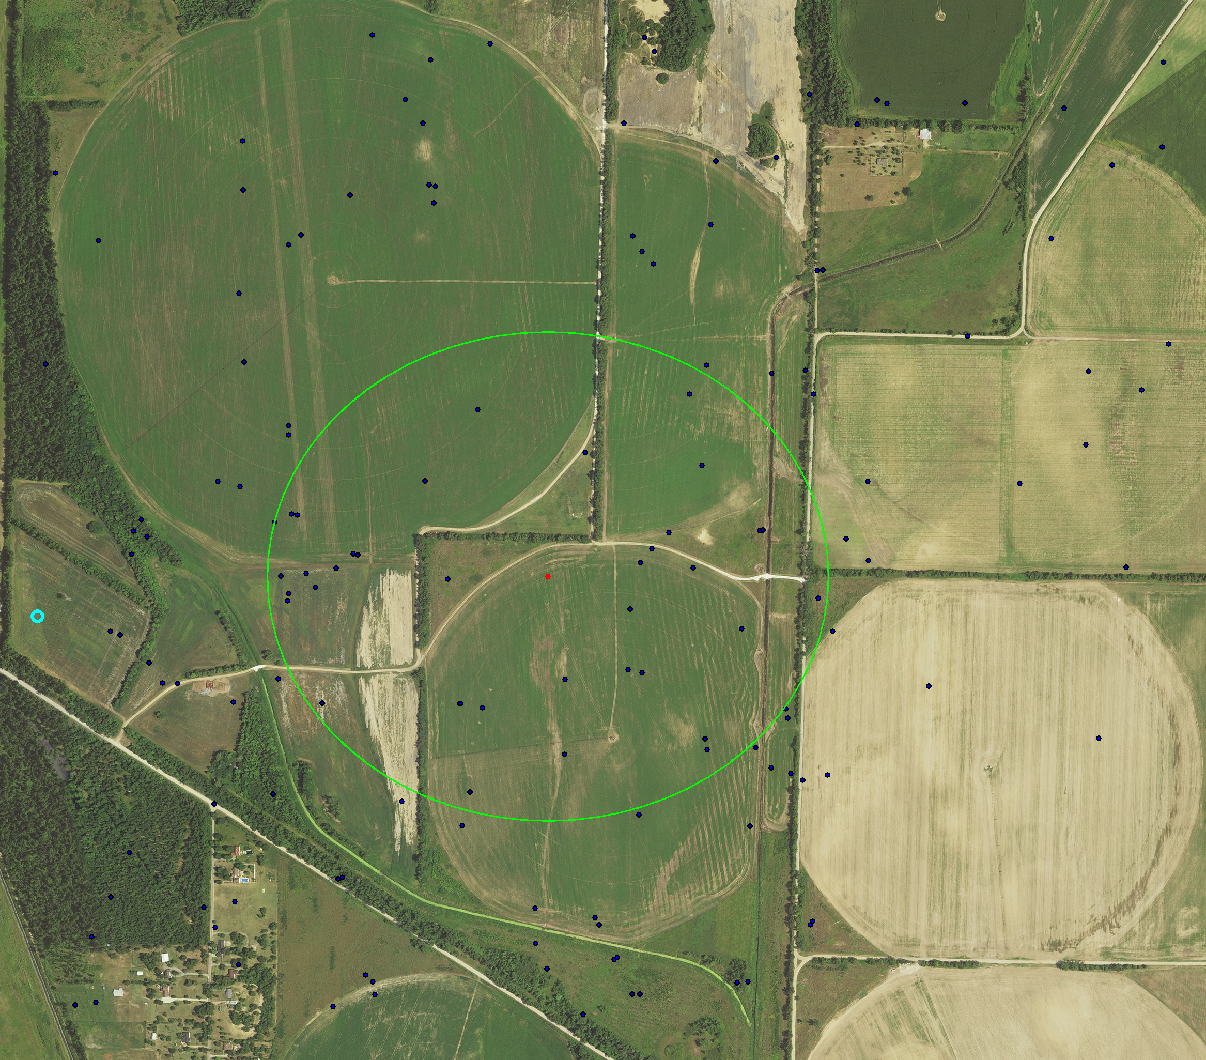
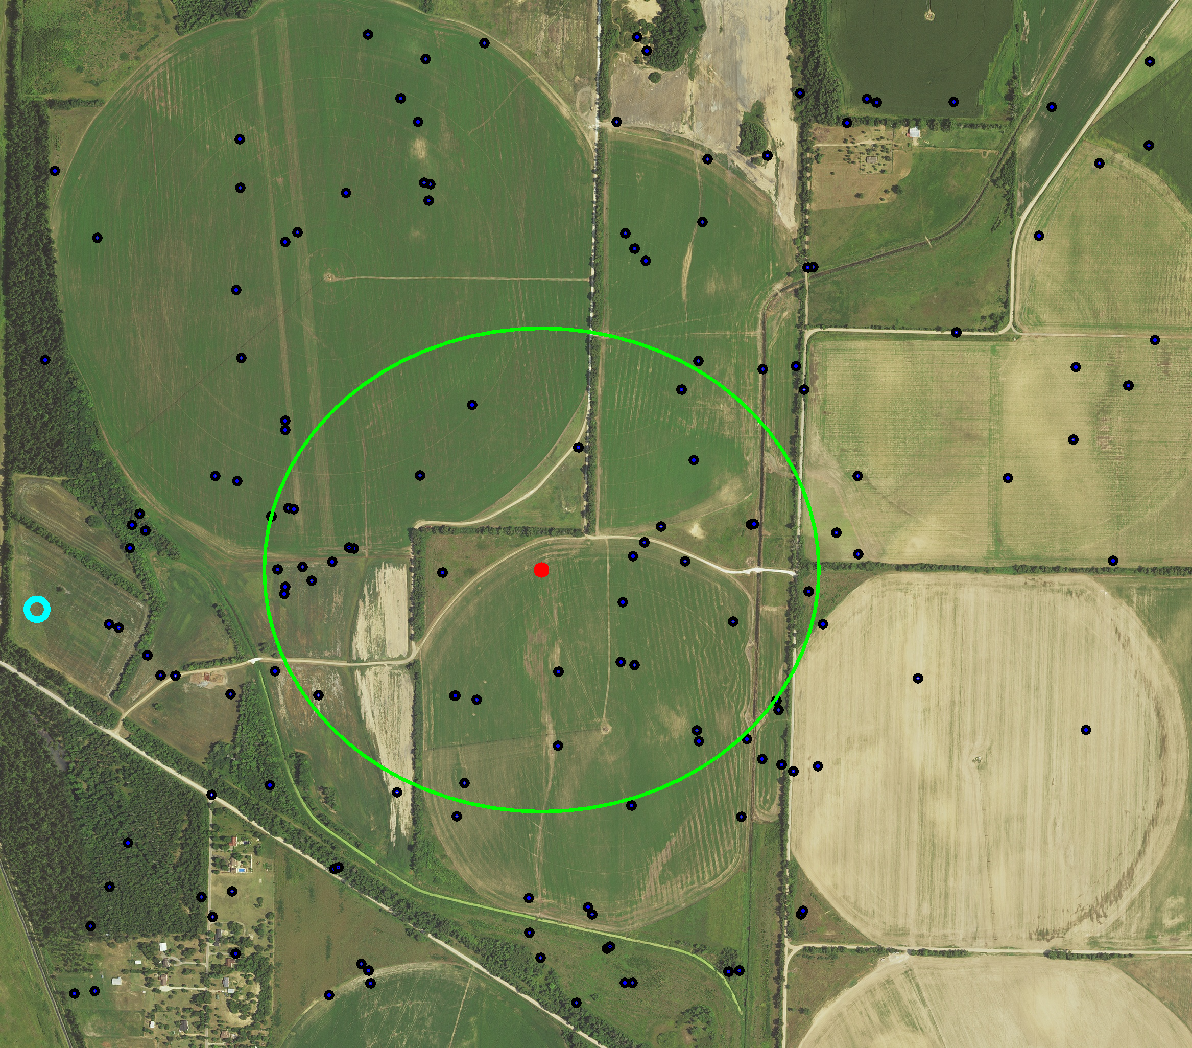
Photos added #2
Photos without model; stoping visualization

diff --git a/src/__main__.py b/src/__main__.py
@@ -49,38 +49,36 @@ def visualize_particles(map_picture, particles, uav, metric):
 
     # traj_coords = uav.traj_coords
     # for i in range(1, len(traj_coords)):
-    #     cv2.line(map_copy, traj_coords[i - 1], traj_coords[i], (255, 0, 0), 2)
+    #     cv2.line(map_copy, traj_coords[i - 1], traj_coords[i], (255, 0, 0), 5)
 
-    # # Dodanie oznaczenia startu i końca trajektorii
     # start_point = traj_coords[0]
     # end_point = traj_coords[-1]
-    # text_offset = (0, -10)  # Przesunięcie tekstu w górę
-    # font_scale = 1.0  # Powiększenie tekstu
+    # font_scale = 3.0
 
-    # cv2.putText(map_copy, 'START', (start_point[0], start_point[1] + text_offset[1]),
-    #             cv2.FONT_HERSHEY_SIMPLEX, font_scale, (0, 255, 0), 2)
-    # cv2.putText(map_copy, 'END', (end_point[0], end_point[1] + text_offset[1]),
-    #             cv2.FONT_HERSHEY_SIMPLEX, font_scale, (0, 0, 255), 2)
+    # cv2.putText(map_copy, 'START', (start_point[0], start_point[1] - 50),
+    #             cv2.FONT_HERSHEY_SIMPLEX, font_scale, (0, 255, 0), 9)
+    # cv2.putText(map_copy, 'END', (end_point[0] - 120, end_point[1] - 60),
+    #             cv2.FONT_HERSHEY_SIMPLEX, font_scale, (0, 0, 255), 9)
 
-    # cv2.drawMarker(map_copy, start_point, (0, 255, 0), markerType=cv2.MARKER_STAR, markerSize=10, thickness=2)
-    # cv2.drawMarker(map_copy, end_point, (0, 0, 255), markerType=cv2.MARKER_STAR, markerSize=10, thickness=2)
+    # cv2.drawMarker(map_copy, start_point, (0, 255, 0), markerType=cv2.MARKER_STAR, markerSize=40, thickness=5)
+    # cv2.drawMarker(map_copy, end_point, (0, 0, 255), markerType=cv2.MARKER_STAR, markerSize=40, thickness=5)
     for particle in particles:
-        cv2.circle(map_copy, particle.get_position(), 2, (255, 0, 0), 2)
-        cv2.circle(map_copy, particle.get_position(), 4, (0, 0, 0), 2)
+        cv2.circle(map_copy, particle.get_position(), 5, (255, 0, 0), 5)
+        cv2.circle(map_copy, particle.get_position(), 7, (0, 0, 0), 5)
 
     cv2.ellipse(
         map_copy, (int(centroid[0][0]), int(centroid[0][1])),
         axes=(int(major), int(minor)), angle=0, startAngle=0, endAngle=360,
-        color=(0, 255, 0), thickness=2
+        color=(0, 255, 0), thickness=5
     )
-    cv2.circle(map_copy, (int(centroid[0][0]), int(centroid[0][1])), 5, (0, 0, 255), -1)
-    cv2.circle(map_copy, uav.get_position(), 10, (255, 255, 0), 5)
+    cv2.circle(map_copy, (int(centroid[0][0]), int(centroid[0][1])), 15, (0, 0, 255), -1)
+    cv2.circle(map_copy, uav.get_position(), 20, (255, 255, 0), 12)
 
     cv2.imshow('Visual Localization', map_copy)
     cv2.waitKey(1)
-    # key = cv2.waitKey(0) & 0xFF
-    # if key == ord('x'):
-    #     cv2.destroyAllWindows()
+    key = cv2.waitKey(0) & 0xFF
+    if key == ord('x'):
+        cv2.destroyAllWindows()
 
 
 def compute_matching(particles, uav, matcher, resampler):
